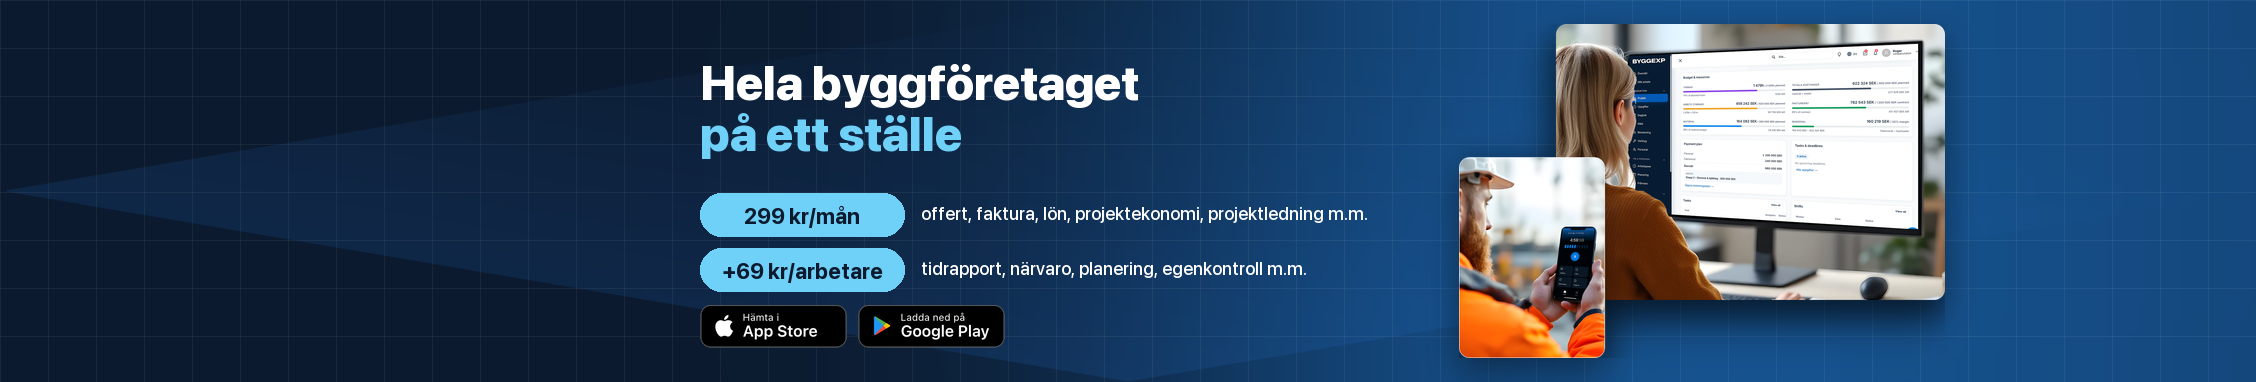
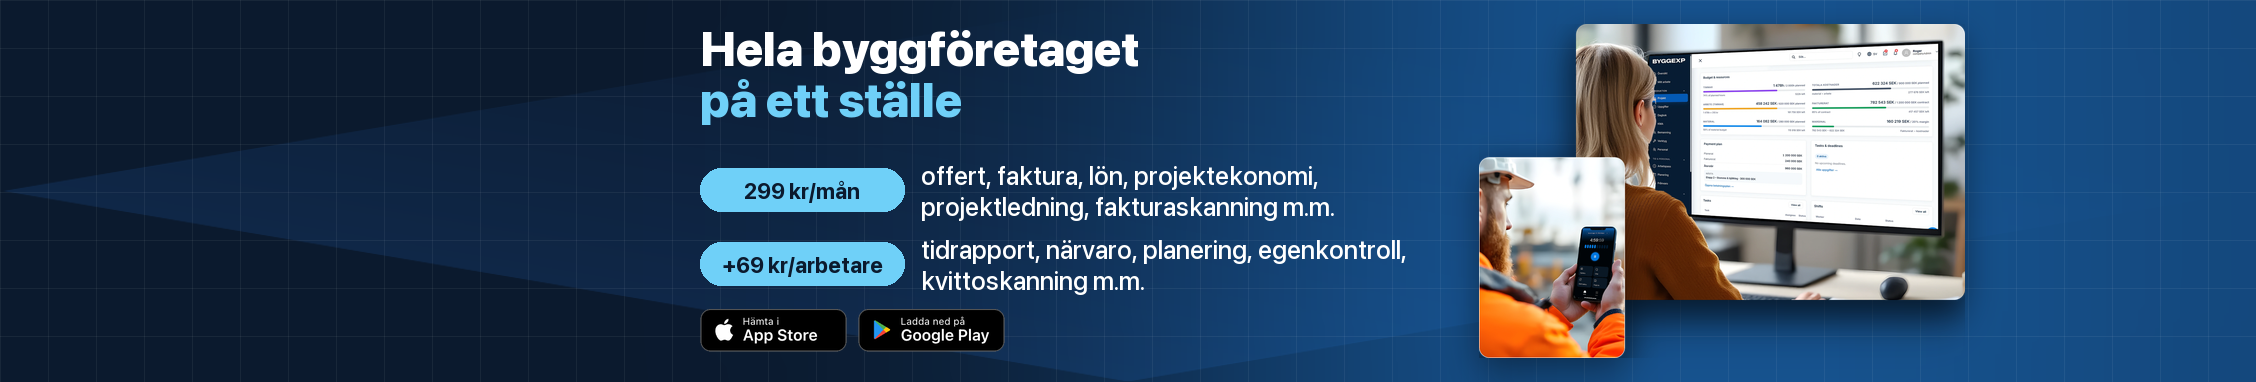
SMM S19: covers centred, bigger photo, scanning features in price rows
Claude-Session: https://claude.ai/code/session_01XD1XQzsUammoaxUgkDVk4g

Changed region(s): [[0.3103, 0.0576, 0.8688, 0.9503], [0.3103, 0.0864, 0.5275, 0.4031]]

diff --git a/design-assets/social/covers/make_covers.py b/design-assets/social/covers/make_covers.py
@@ -57,7 +57,7 @@ def tiles(names, gap=36, r=48):
     return out
 
 
-def cover(name, w, h, safe, lines, fs, cell, sub=None, tw=None, shot=None, url=None, price=None, stores=False, label_w=None):
+def cover(name, w, h, safe, lines, fs, cell, sub=None, tw=None, shot=None, url=None, price=None, stores=False, label_w=None, center=False, shot_r=None, label_k=.44):
     sl, st, sw, sh = safe
     img = background(w, h, cell)
     d = ImageDraw.Draw(img)
@@ -68,9 +68,20 @@ def cover(name, w, h, safe, lines, fs, cell, sub=None, tw=None, shot=None, url=N
         sub_lines = sub_lines + [url]
     ph = int(fs * .9)  # S17 price pill, S16 store badges under it
     rows = [price] if isinstance(price, str) else (price or [])  # S18: [(price, what it includes)]
-    extra = (int(fs * .4) + len(rows) * ph + (len(rows) - 1) * int(fs * .25) if rows else 0) + (int(fs * .3) + ph if stores else 0)
+    rows = [r if isinstance(r, tuple) else (r, None) for r in rows]
+    fp, fl = font(int(ph * .52), "Bold"), font(int(ph * label_k), "Medium")
+    lh2 = int(fl.size * 1.2)
+    # label_w: wrap the labels so the photo on the right stays large; a row grows with its label
+    rows = [(p, wrap(d, lab, fl, label_w) if lab and label_w else [lab] if lab else []) for p, lab in rows]
+    rhs = [max(ph, lh2 * len(ls)) for _, ls in rows]
+    gap_r = int(fs * .25)
+    extra = (int(fs * .8) + sum(rhs) + (len(rows) - 1) * gap_r if rows else 0) + (int(fs * .3) + ph if stores else 0)
     block_h = lh * len(lines) + (int(fs * .4) + slh * len(sub_lines) if sub_lines else 0) + extra
-    y = st + (sh - block_h) // 2
+    if sub_lines and rows:
+        block_h -= int(fs * .4)
+    bt = d.textbbox((0, 0), lines[0][0], font=big)[1]  # empty space above the headline ink
+    # S19: equal space above the headline ink and below the last row
+    y = (h - block_h + bt) // 2 - bt if center else st + (sh - block_h) // 2
     text_w = 0
     for text, color in lines:
         d.text((sl, y), text, font=big, fill=color)
@@ -83,24 +94,22 @@ def cover(name, w, h, safe, lines, fs, cell, sub=None, tw=None, shot=None, url=N
         y += slh
     if rows:
         y += int(fs * .4) - (int(fs * .4) if sub_lines else 0)
-        fp, fl = font(int(ph * .52), "Bold"), font(int(ph * .44), "Medium")
-        pw = max(d.textlength(r[0] if isinstance(r, tuple) else r, font=fp) for r in rows) + ph  # equal pill width
-        for i, r in enumerate(rows):
-            p, label = r if isinstance(r, tuple) else (r, None)
+        pw = max(d.textlength(p, font=fp) for p, _ in rows) + ph  # equal pill width
+        for i, ((p, ls), rh) in enumerate(zip(rows, rhs)):
             if i:
-                y += int(fs * .25)
-            d.rounded_rectangle((sl, y, sl + pw, y + ph), ph // 2, fill=SKY)
-            d.text((sl + (pw - d.textlength(p, font=fp)) / 2, y + ph * .2), p, font=fp, fill=NAVY)
+                y += gap_r
+            py = y + (rh - ph) // 2
+            d.rounded_rectangle((sl, py, sl + pw, py + ph), ph // 2, fill=SKY)
+            d.text((sl + (pw - d.textlength(p, font=fp)) / 2, py + ph * .2), p, font=fp, fill=NAVY)
             rw = pw
-            if label:  # what the price includes, one left line for all labels
-                ls = wrap(d, label, fl, label_w) if label_w else [label]  # label_w: wrap so the photo keeps its size
-                lh2 = fl.size * 1.15
-                ty = y + (ph - lh2 * len(ls)) / 2 + (fl.size * .05 if len(ls) > 1 else ph * .22 - (ph - lh2) / 2)
+            if ls:  # what the price includes, one left line for all labels
+                ink = d.textbbox((0, 0), "Åg", font=fl)
+                ty = y + (rh - lh2 * len(ls)) / 2 + (lh2 - (ink[3] - ink[1])) / 2 - ink[1]
                 for k, t in enumerate(ls):
                     d.text((sl + pw + ph * .4, ty + k * lh2), t, font=fl, fill=WHITE)
                 rw = pw + ph * .4 + max(d.textlength(t, font=fl) for t in ls)
             text_w = max(text_w, rw)
-            y += ph
+            y += rh
     if stores:
         y += int(fs * .3)
         b = Image.open(TILES / "stores.png").convert("RGBA").crop((313, 64, 931, 151))
@@ -112,7 +121,7 @@ def cover(name, w, h, safe, lines, fs, cell, sub=None, tw=None, shot=None, url=N
         text_w = max(text_w, b.width)
     # product screenshot fills the rest of the safe area
     gap = int(fs * .8)
-    box_w, box_h = int(sl + sw - (sl + text_w + gap)), sh
+    box_w, box_h = int((shot_r or sl + sw) - (sl + text_w + gap)), sh  # shot_r: photo may reach past the text safe area
     shot = (shot or Image.open(SHOT)).convert("RGBA").copy()
     shot.thumbnail((box_w, box_h), Image.LANCZOS)
     if shot.getextrema()[3][0] == 255:  # opaque crop -> round the card corners (S4 card style)
@@ -157,8 +166,8 @@ for n in ("linkedin-cover-value", "linkedin-cover-product"):  # LinkedIn rejects
 # S16/S17: hero collage from the home page + price + store badges
 HERO = Image.open(TILES / "hero-nostores.png")  # badges sit next to the price instead
 HEAD = [("Hela byggföretaget", WHITE), ("på ett ställe", SKY)]
-PRICE = [("299 kr/mån", "offert, faktura, lön, projektekonomi, projektledning m.m."), ("+69 kr/arbetare", "tidrapport, närvaro, planering, egenkontroll m.m.")]  # S18
-cover("facebook-cover-v4", 1640, 624, (270, 40, 1100, 544), HEAD, 64, 48, shot=HERO, price=PRICE, stores=True, label_w=440)
-cover("linkedin-cover-v4", 2256, 382, (700, 24, 1300, 334), HEAD, 48, 48, shot=HERO, price=PRICE, stores=True)
+PRICE = [("299 kr/mån", "offert, faktura, lön, projektekonomi, projektledning, fakturaskanning m.m."), ("+69 kr/arbetare", "tidrapport, närvaro, planering, egenkontroll, kvittoskanning m.m.")]  # S18
+cover("facebook-cover-v4", 1640, 624, (270, 40, 1120, 544), HEAD, 64, 48, shot=HERO, price=PRICE, stores=True, label_w=420, center=True, shot_r=1580)
+cover("linkedin-cover-v4", 2256, 382, (700, 24, 1300, 334), HEAD, 48, 48, shot=HERO, price=PRICE, stores=True, center=True, label_w=560, label_k=.62)  # labels readable at half size
 Image.open(HERE / "linkedin-cover-v4.png").convert("RGB").resize((1584, 268), Image.LANCZOS).save(HERE / "linkedin-cover-v4.jpg", quality=92)
 print("ok")

diff --git a/design-assets/social/DESIGN-SYSTEM-SMM.md b/design-assets/social/DESIGN-SYSTEM-SMM.md
@@ -57,7 +57,9 @@
 
 **S17 · 2026-10-20 · Цена видна везде.** Каждый пост, обложка и закреп показывают цену внутри квадрата сетки (S15): плашка «299 kr/mån · +69 kr/arbetare» (на постах рубрики — её цена), в тексте поста цена в первых строках. Источник цен — `src/components/HeroV2/HeroV2.tsx`; старые цены (299/690/990) не использовать, посты с ними — в архив. Почему: владелец: «цены — наша фишка, не прятать».
 
-**S18 · 2026-10-20 · Цена с пояснением, что в неё входит.** Не голая «299 kr/mån + 69 kr/arbetare», а строки «плашка цены + что входит»: «299 kr/mån — offert, faktura, lön, projektekonomi, projektledning m.m.» и «+69 kr/arbetare — tidrapport, närvaro, planering, egenkontroll m.m.»: 3–4 главные киллер-фичи из шапки сайта, остальное в «m.m.». Плашки одной ширины, пояснения выровнены по одной линии. Источник состава — `PRICE_LINES` в `src/components/HeroV2/HeroV2.tsx`. Код: `covers/make_covers.py` (`price` = список пар). Почему: владелец: «не понятно, что и за что — дать пояснения, что входит в сумму».
+**S18 · 2026-10-20 · Цена с пояснением, что в неё входит.** Не голая «299 kr/mån + 69 kr/arbetare», а строки «плашка цены + что входит»: «299 kr/mån — offert, faktura, lön, projektekonomi, projektledning, fakturaskanning m.m.» и «+69 kr/arbetare — tidrapport, närvaro, planering, egenkontroll, kvittoskanning m.m.»: 3–4 главные киллер-фичи из шапки сайта, остальное в «m.m.». Плашки одной ширины, пояснения выровнены по одной линии. Источник состава — `PRICE_LINES` в `src/components/HeroV2/HeroV2.tsx`. Код: `covers/make_covers.py` (`price` = список пар). Почему: владелец: «не понятно, что и за что — дать пояснения, что входит в сумму».
+
+**S19 · 2026-10-20 · Блок текста на обложке — по центру по высоте.** Расстояние от верха обложки до заголовка = расстоянию от низа значков сторов до низа обложки. Фото справа — крупное: на FB может выходить за мобильную зону до x 1580 (`shot_r`), текст остаётся в зоне 270–1120. Состав цены — короткими словами (fakturaskanning, kvittoskanning). Код: `cover(..., center=True, shot_r=…)` в `covers/make_covers.py`. Почему: владелец: «расстояние под кнопками как над», «картинку справа больше».
 
 **S7 · Текст.** Шведский, без кириллицы; только факты из `docs/seo/product-facts-verified.md`; ссылки с UTM.
 
